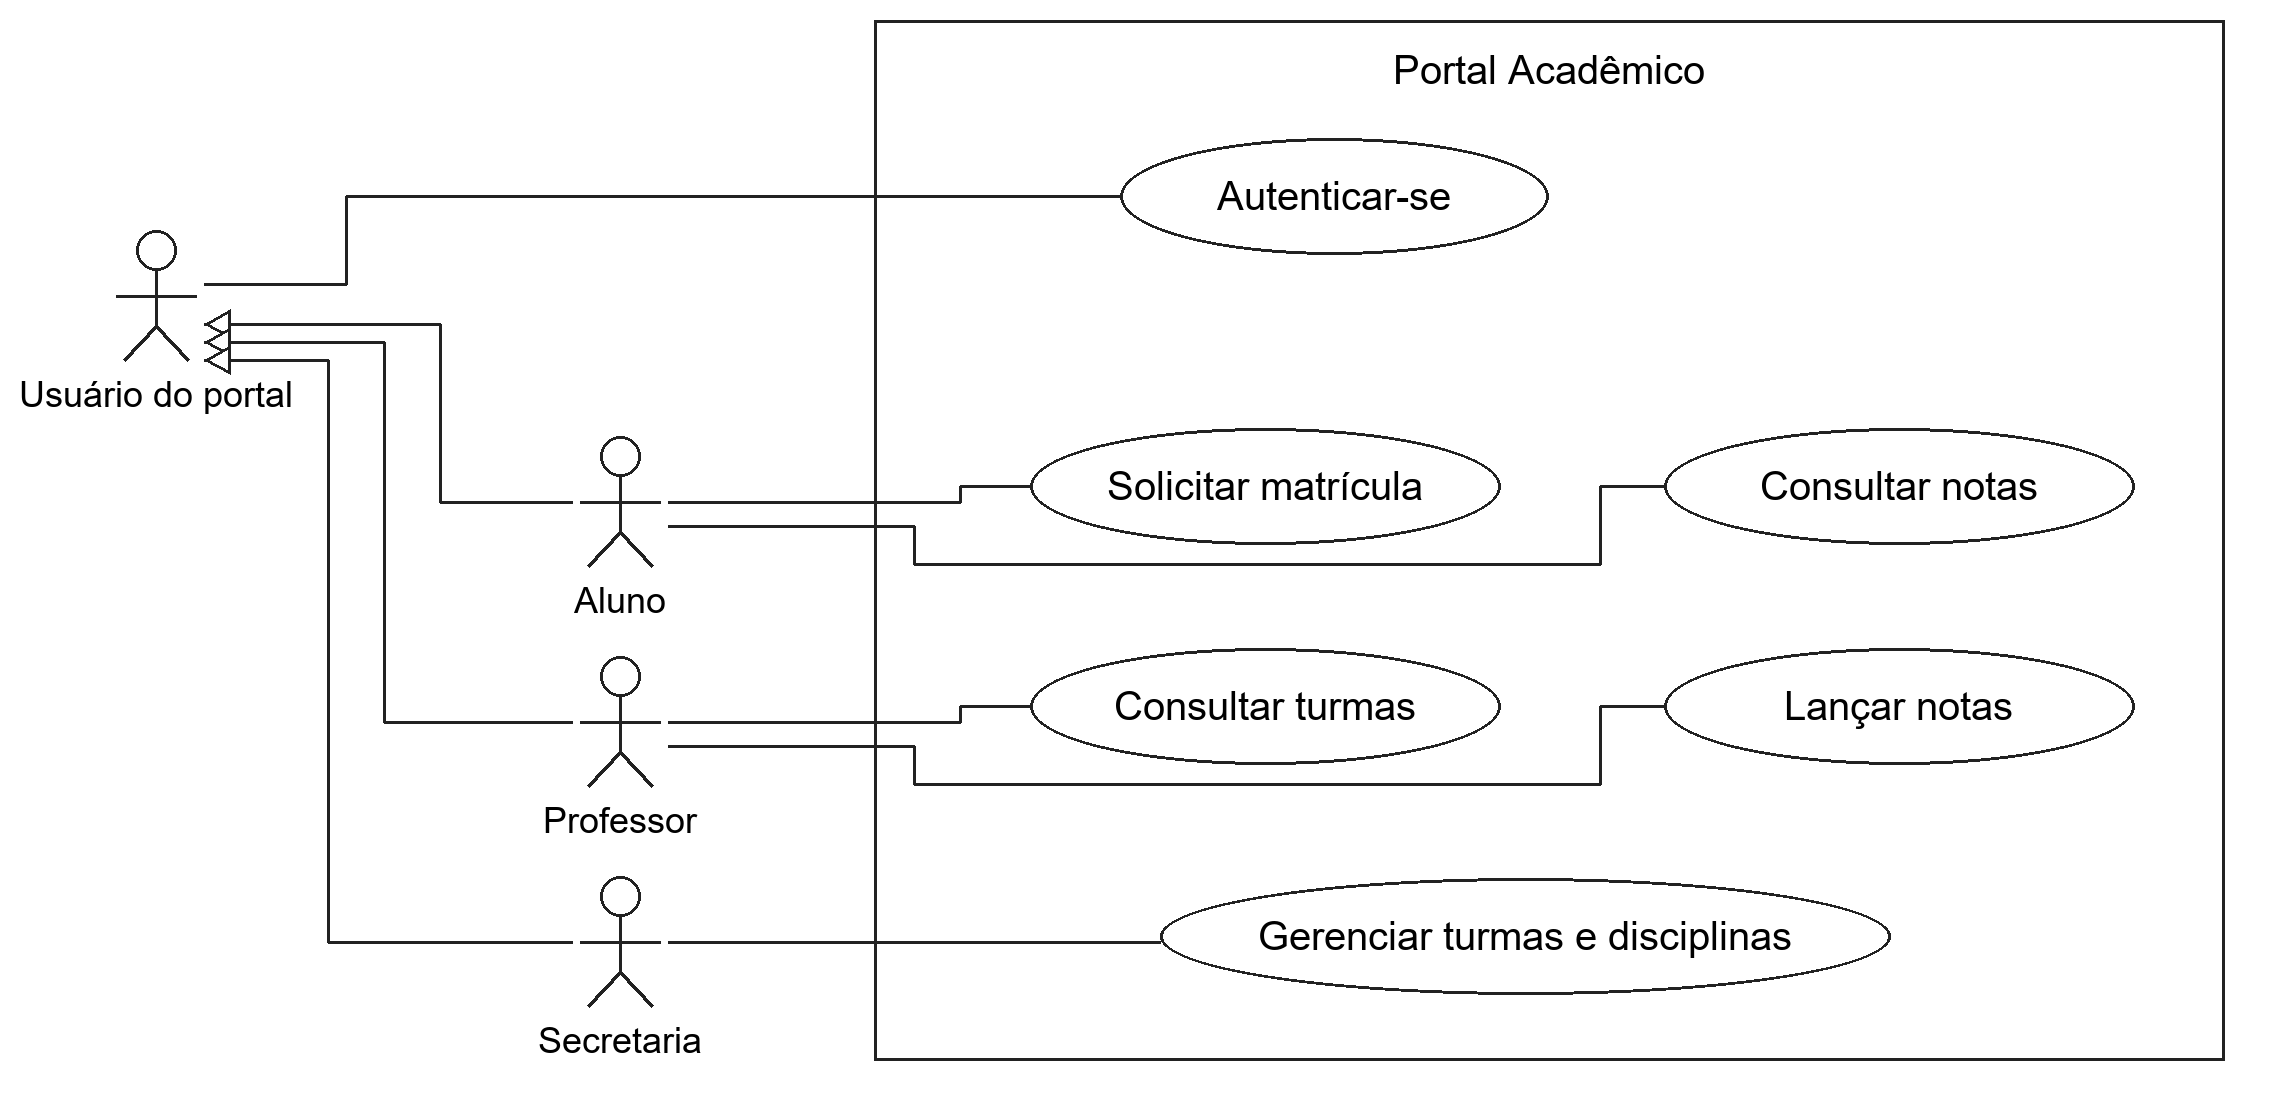
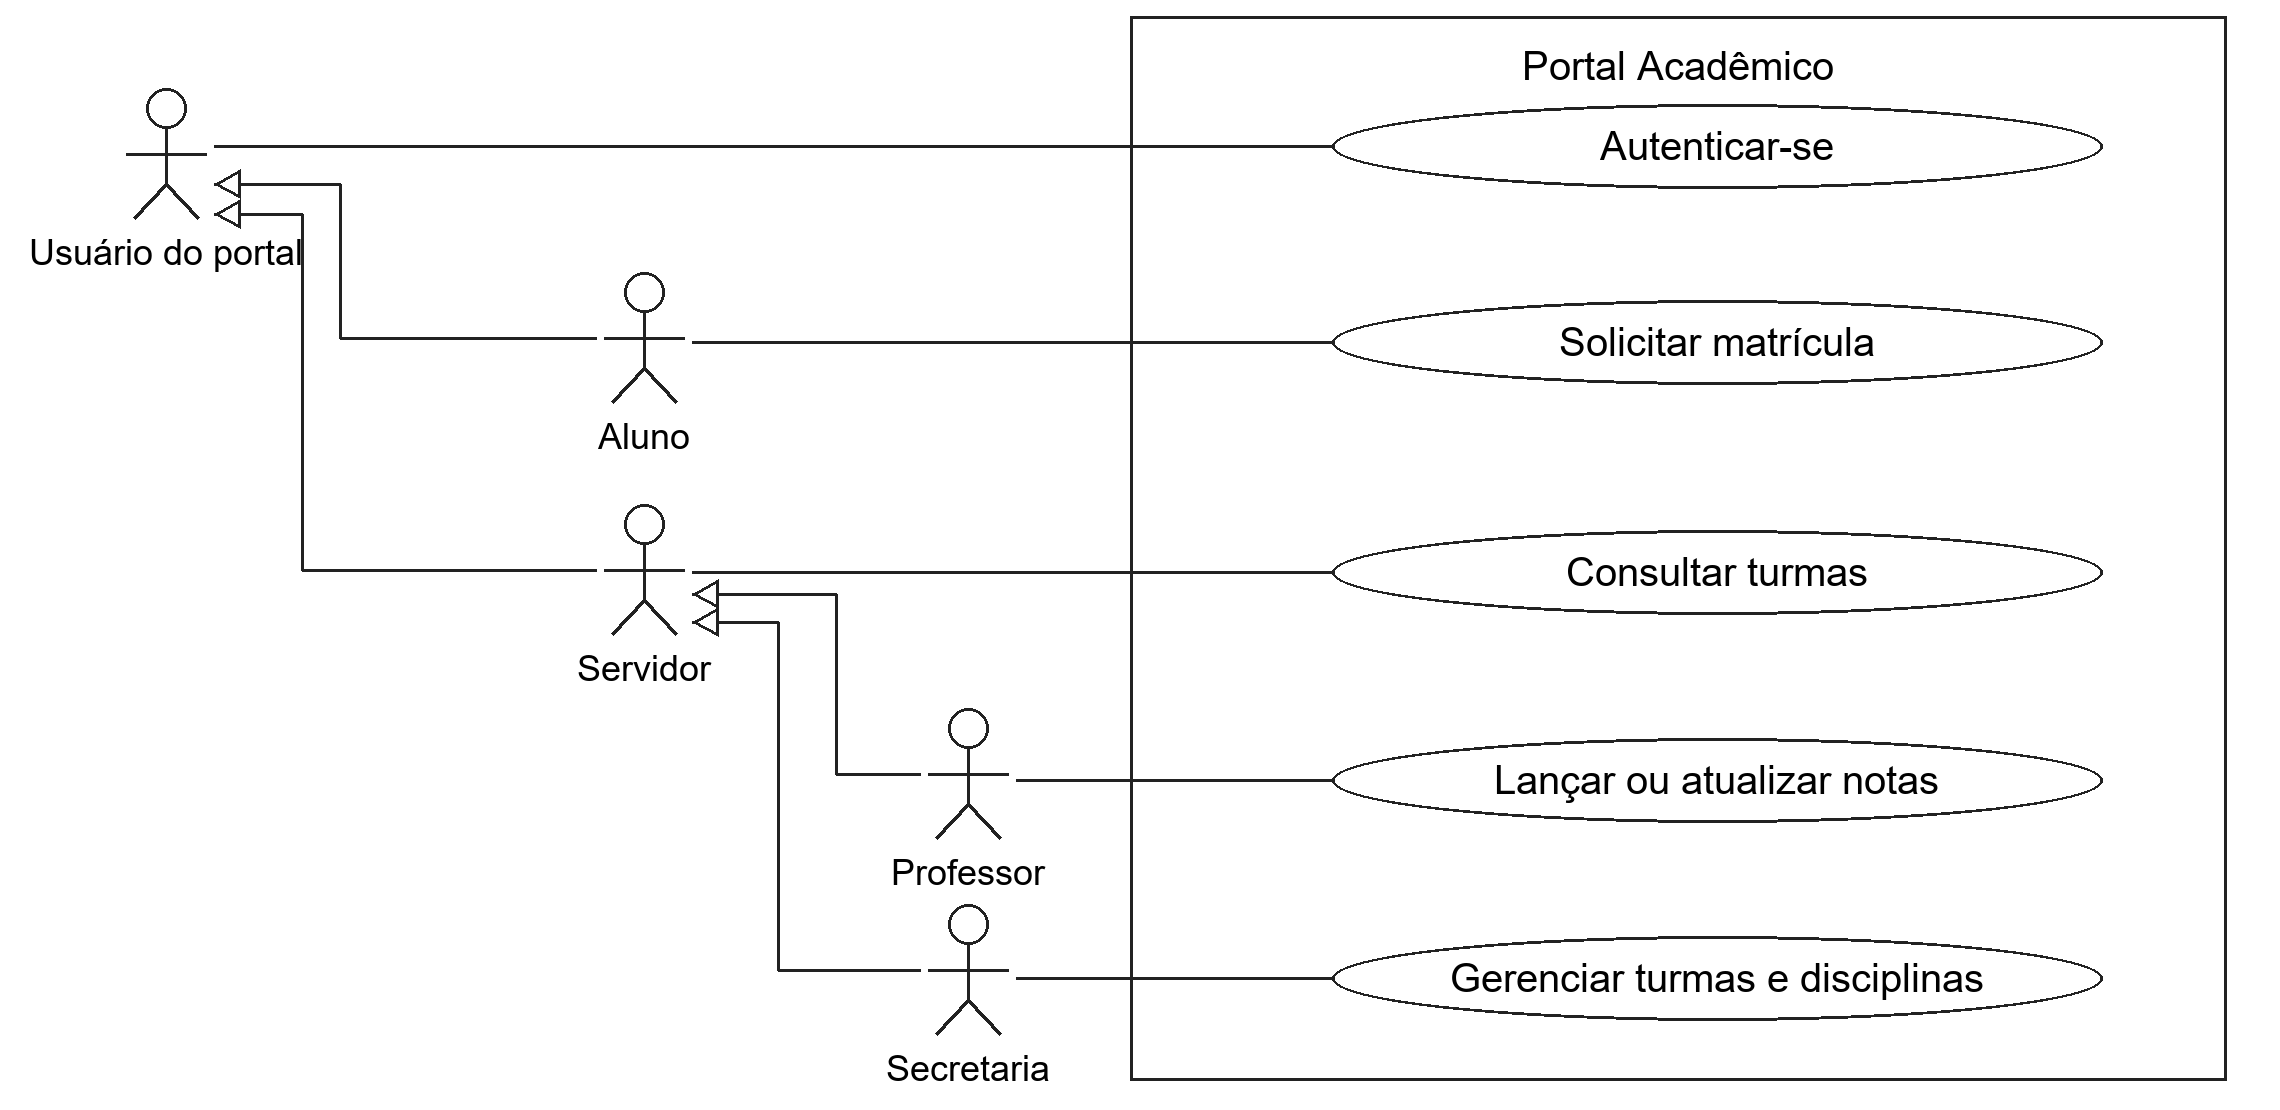
Explica a herança de atores e as ações por perfil

diff --git a/README.md b/README.md
@@ -18,7 +18,7 @@ Diagramas simples do portal acadêmico, separados por tipo. Os arquivos `.drawio
 
 Samuel é o responsável pelos casos de uso ampliados. Veja [perfis e generalização](diagramas/casos-de-uso/perfis-e-generalizacao.drawio) ou [relações na matrícula](diagramas/casos-de-uso/matricula-include-extend.drawio) no draw.io. Os dois desenhos também estão disponíveis em [PNG de perfis](diagramas/casos-de-uso/perfis-e-generalizacao.png) e [PNG de matrícula](diagramas/casos-de-uso/matricula-include-extend.png).
 
-A [apresentação em PowerPoint](output/apresentacao/PP1-casos-de-uso-ampliados.pptx) inclui os dois novos slides após a visão geral de casos de uso.
+A [apresentação em PowerPoint](output/apresentacao/PP1-casos-de-uso-ampliados.pptx) detalha a herança entre os atores, as ações por perfil e as relações na matrícula após a visão geral de casos de uso.
 
 - `diagramas/casos-de-uso/casos-de-uso-portal.drawio` e `.png` - casos de uso do portal acadêmico.
 - `diagramas/classes/classes.drawio` e `modelo-de-dominio.png` - modelo de classes e domínio.
